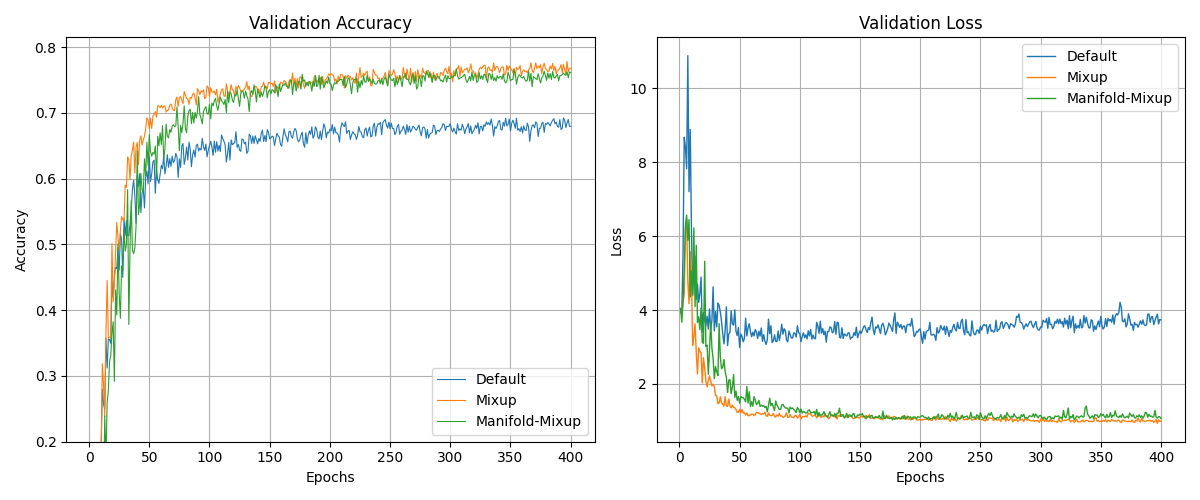
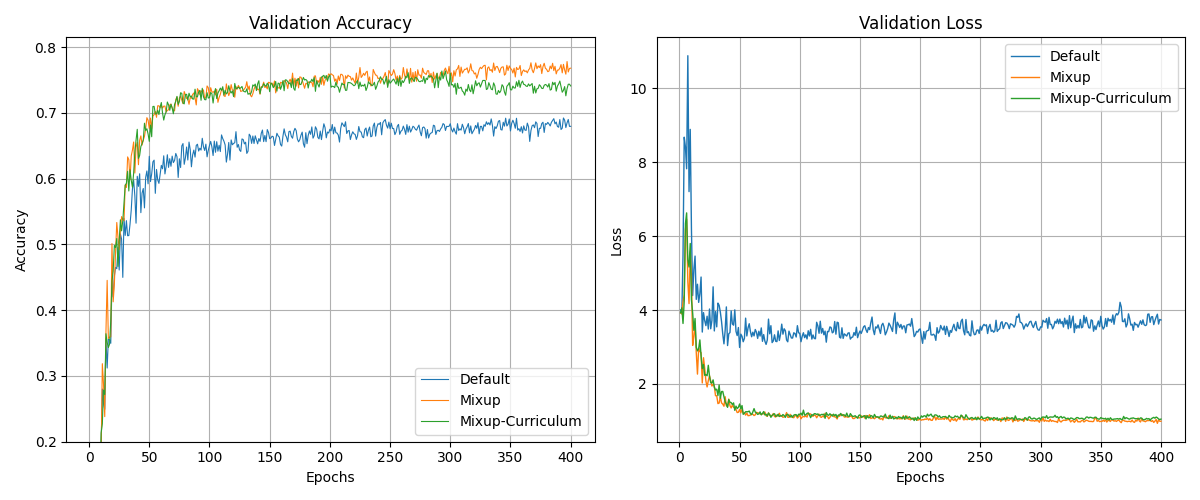
mixup alpha ablation

diff --git a/experiment1.py b/experiment1.py
@@ -1,3 +1,4 @@
+import os
 import torch
 import torch.nn as nn
 import torch.nn.functional as F
@@ -5,6 +6,7 @@ import torch.optim as optim
 import torchvision
 import numpy as np
 import torchvision.transforms as transforms
+import matplotlib.pyplot as plt
 from torch.utils.data import DataLoader
 from torchvision.datasets import CIFAR100
 from src.models.wide_resnet import Wide_ResNet
@@ -43,19 +45,56 @@ def interpolation_test(model, x1, x2, lambdas):
     with torch.no_grad():
         for lam in lambdas:
             x_mix = lam * x1 + (1 - lam) * x2
-            out = F.softmax(model(x_mix), dim=1)
+            out = F.softmax(model(x_mix, labels=None, device=None, augment=None), dim=1)
             probs.append(out.cpu().numpy())
     return np.stack(probs)  # [len(lambdas), batch, num_classes]
 
+def plot(augmentations, lambdas, apple1, apple2, apple3, wolf1, wolf2, wolf3):
+    os.makedirs(f"./experiments/", exist_ok=True)
+    plt.figure(figsize=(12, 5))
+    
+    ### sample 1 ###
+    plt.subplot(1, 2, 1)
+    plt.plot(lambdas, apple1, linestyle='solid', linewidth=0.8, label="Default")
+    plt.plot(lambdas, apple2, linestyle='solid', linewidth=0.8, label="Mixup")
+    plt.plot(lambdas, apple3, linestyle='solid', linewidth=0.8, label="Manifold-Mixup")
+        
+    plt.title('Apple Probs.')
+    plt.xlabel('λ')
+    plt.ylabel('Probs.')
+    plt.legend()
+    plt.grid(True)
+    # plt.ylim(bottom=0.2)
+    
+    ### sample 2 ###
+    plt.subplot(1, 2, 2)
+    plt.plot(lambdas, wolf1, linestyle='solid', linewidth=0.8, label="Default")
+    plt.plot(lambdas, wolf2, linestyle='solid', linewidth=0.8, label="Mixup")
+    plt.plot(lambdas, wolf3, linestyle='solid', linewidth=0.8, label="Manifold-Mixup")
+        
+    plt.title('Wolf Probs.')
+    plt.xlabel('λ')
+    plt.ylabel('Probs.')
+    plt.legend()
+    plt.grid(True)
+    # plt.ylim(bottom=0.2)
+    
+    plt.tight_layout()
+    plt.savefig(f'./experiments/Default_Mixup.png')
+    print("Save Result!")
+
 # --- 7. 実験実行サンプル ---
 if __name__ == '__main__':
-
-    # 最適化器・損失定義
-    optimizer = optim.Adam(model.parameters())
-    criterion = nn.CrossEntropyLoss()
+    augmentations = ["Default", "Mixup", "Manifold-Mixup"]
+    default_apples = []
+    default_wolfs  = []
+    mixup_apples = []
+    mixup_wolfs  = []
+    manifold_mixup_apples = []
+    manifold_mixup_wolfs  = []
 
     # Baseline と Mixup で訓練
-    for augment in ["Default", "Mixup"]:
+    for augment in augmentations:
         print(f"== {augment} ==")
         model_save_path = f"./logs/wide_resnet_28_10/{augment}/cifar100_400_0.pth"
         model.load_state_dict(torch.load(model_save_path, weights_only=True))
@@ -66,15 +105,29 @@ if __name__ == '__main__':
         jn = compute_jacobian_norm(model, x_batch.to(device), labels.to(device), augment)
         print(f"Avg Jacobian norm ({augment}):", jn.mean().item())
 
-    # 線形補間テスト例
-    x_batch, y_batch = next(iter(test_loader))
-    # クラス0 とクラス1 の最初のサンプルを選択
-    idx0 = (y_batch == 0).nonzero()[0]
-    idx1 = (y_batch == 1).nonzero()[0]
-    x0 = x_batch[idx0:idx0+1].to(device)
-    x1 = x_batch[idx1:idx1+1].to(device)
-    lambdas = np.linspace(0, 1, 11)
-    probs_baseline = interpolation_test(model, x0, x1, lambdas)
-    print("Interpolation probs (Default):", probs_baseline[:,0,:2])
-    probs_mixup = interpolation_test(m, x0, x1, lambdas)
-    print("Interpolation probs (Mixup):", probs_mixup[:,0,:2])
+        # 線形補間テスト例
+        x_batch, y_batch = next(iter(test_loader))
+        # クラス0 とクラス1 の最初のサンプルを選択
+        idx0 = (y_batch == 21).nonzero()[0] # チンパンジー
+        idx1 = (y_batch == 97).nonzero()[0] # オオカミ
+        x0 = x_batch[idx0:idx0+1].to(device)
+        x1 = x_batch[idx1:idx1+1].to(device)
+        lambdas = np.linspace(0, 1, 101)
+        probs_baseline = interpolation_test(model, x0, x1, lambdas)
+        print(f"Interpolation probs ({augment}):")
+        
+        for i in range(101):
+            apple_prob = probs_baseline[i][0][21] 
+            wolf_prob  = probs_baseline[i][0][97]
+            if augment == "Default":
+                default_apples.append(apple_prob)
+                default_wolfs.append(wolf_prob)
+            elif augment == "Mixup":
+                mixup_apples.append(apple_prob)
+                mixup_wolfs.append(wolf_prob)
+            elif augment == "Manifold-Mixup":
+                manifold_mixup_apples.append(apple_prob)
+                manifold_mixup_wolfs.append(wolf_prob)
+            print(round(apple_prob, 3), round(wolf_prob, 3))
+
+    plot(augmentations, lambdas, default_apples, mixup_apples, manifold_mixup_apples, default_wolfs, mixup_wolfs, manifold_mixup_wolfs)

diff --git a/experiment2.py b/experiment2.py
@@ -1,0 +1,74 @@
+import os
+import torch
+import torch.nn.functional as F
+import numpy as np
+from torch.utils.data import DataLoader
+import torchvision.transforms as transforms
+from torchvision.datasets import CIFAR100
+from src.models.wide_resnet import Wide_ResNet
+
+# --- 1. データセット準備 ---
+transform = transforms.Compose([
+    transforms.ToTensor(),
+    transforms.Normalize(mean=[0.485, 0.456, 0.406], std=[0.229, 0.224, 0.225]),
+])
+test_dataset = CIFAR100(root="./data", train=False, transform=transform, download=True)
+test_loader  = DataLoader(test_dataset, batch_size=128, shuffle=False, num_workers=4)
+
+def power_iteration(W, num_iters=20):
+    # W: 2D tensor
+    device = W.device
+    u = torch.randn(W.size(0), 1, device=device)
+    for _ in range(num_iters):
+        v = torch.matmul(W.t(), u)
+        v = v / (v.norm() + 1e-12)
+        u = torch.matmul(W, v)
+        u = u / (u.norm() + 1e-12)
+    sigma = torch.matmul(u.t(), torch.matmul(W, v))
+    return sigma.item()
+
+# --- 2. スペクトルノルム＆Lipschitz定数（近似）の計算 ---
+def compute_layer_spectral_norms(model):
+    norms = []
+    for name, param in model.named_parameters():
+        if param.ndim >= 2:
+            W = param.view(param.size(0), -1)
+            sigma = power_iteration(W)
+            norms.append(sigma)
+    return norms
+
+# --- 3. 摂動耐性テスト ---
+def perturbation_test(model, x, device, noise_std=0.01):
+    x = x.to(model.device)
+    delta = torch.randn_like(x) * noise_std
+    x_noisy = x + delta
+    with torch.no_grad():
+        out_clean = F.softmax(model(x, labels=None, device=device, augment=None), dim=1)
+        out_noisy = F.softmax(model(x_noisy, labels=None, device=device, augment=None), dim=1)
+    diff = (out_noisy - out_clean).view(x.size(0), -1).norm(dim=1)
+    delta_norm = delta.view(x.size(0), -1).norm(dim=1)
+    ratio = (diff / delta_norm).cpu().numpy()
+    return ratio
+
+# --- 4. 実験実行 ---
+if __name__ == '__main__':
+    device = torch.device('cuda' if torch.cuda.is_available() else 'cpu')
+    augmentations = ['Default', 'Mixup', 'Manifold-Mixup']
+    for aug in augmentations:
+        # モデル読み込み
+        model = Wide_ResNet(28, 10, 0.3, num_classes=100).to(device)
+        ckpt = f'./logs/wide_resnet_28_10/{aug}/cifar100_400_0.pth'
+        model.load_state_dict(torch.load(ckpt, map_location=device), strict=False)
+        model.eval()
+        model.device = device
+
+        # 2a. スペクトルノルム計算
+        norms = compute_layer_spectral_norms(model)
+        lipschitz_est = np.prod(norms)
+        print(f"[{aug}] Spectral norms per layer: {np.round(norms, 4)}")
+        print(f"[{aug}] Approx. Lipschitz constant (product): {lipschitz_est:.4e}")
+
+        # 2b. 摂動耐性テスト
+        x_batch, _ = next(iter(test_loader))
+        ratios = perturbation_test(model, x_batch, device, noise_std=0.01)
+        print(f"[{aug}] Perturbation ratio mean: {ratios.mean():.4f}, std: {ratios.std():.4f}\n")

diff --git a/src/utils.py b/src/utils.py
@@ -123,6 +123,26 @@ def train(model, train_loader, criterion, optimizer, device, augment, num_classe
             # if batch_idx == 0:
             #     visualize_batch(epochs, images, labels, augment, n=10)
         
+        elif augment == "Mixup(alpha=0.5)":
+            images, y_a, y_b, lam = mixup_data(images, labels, 0.5, device)
+            preds = model(images, labels, device, augment, aug_ok)
+            loss = mixup_criterion(criterion, preds, y_a, y_b, lam)
+
+        elif augment == "Mixup(alpha=1.0)":
+            images, y_a, y_b, lam = mixup_data(images, labels, 1.0, device)
+            preds = model(images, labels, device, augment, aug_ok)
+            loss = mixup_criterion(criterion, preds, y_a, y_b, lam)
+
+        elif augment == "Mixup(alpha=2.0)":
+            images, y_a, y_b, lam = mixup_data(images, labels, 2.0, device)
+            preds = model(images, labels, device, augment, aug_ok)
+            loss = mixup_criterion(criterion, preds, y_a, y_b, lam)
+
+        elif augment == "Mixup(alpha=5.0)":
+            images, y_a, y_b, lam = mixup_data(images, labels, 5.0, device)
+            preds = model(images, labels, device, augment, aug_ok)
+            loss = mixup_criterion(criterion, preds, y_a, y_b, lam)
+        
         elif augment == "Mixup-Curriculum":
             if epochs < 100:
                 alpha = 0.5

diff --git a/train.py b/train.py
@@ -24,7 +24,12 @@ augmentations = [
     # "Mixup",
     # "Manifold-Mixup",
 
-    "Mixup-Curriculum"
+    # "Mixup-Curriculum",
+
+    "Mixup(alpha=0.5)",
+    "Mixup(alpha=1.0)",
+    "Mixup(alpha=2.0)",
+    "Mixup(alpha=5.0)",
 
     # "FOMA",
     # "FOMA_latent_random",

diff --git a/result.py b/result.py
@@ -20,7 +20,10 @@ def main():
     augmentations = [
         "Default",
         "Mixup",
-        "Manifold-Mixup",
+        # "Manifold-Mixup",
+
+        "Mixup-Curriculum",
+
         # "FOMA",
         # "FOMA_latent_random",
 
